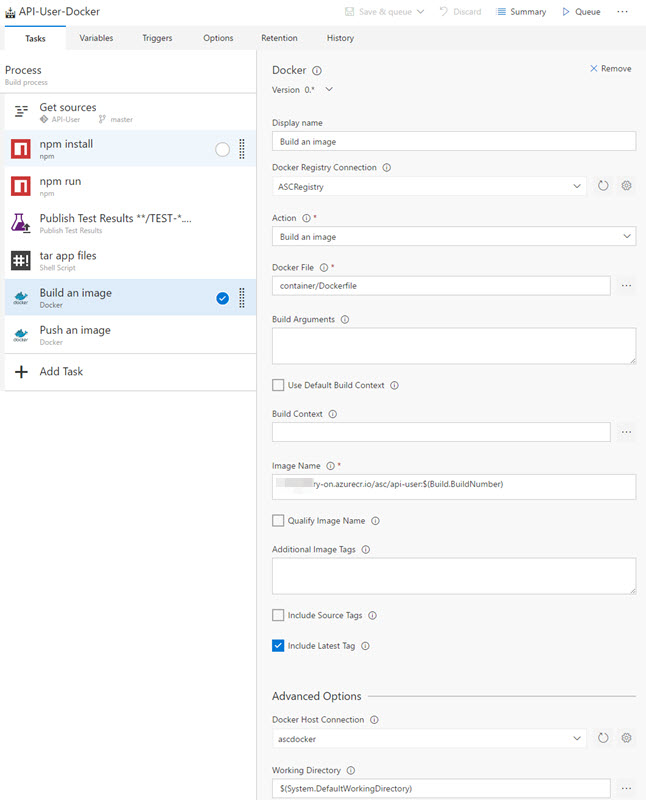
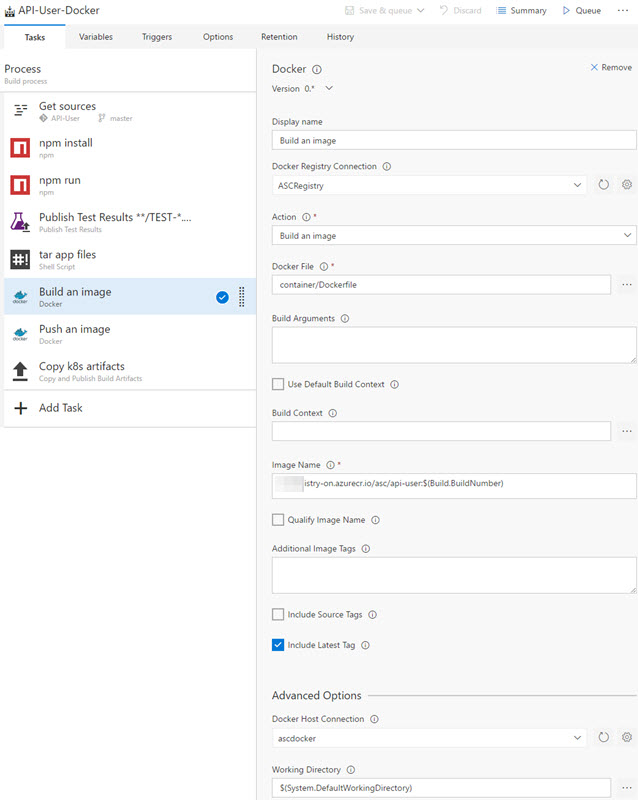
Start CD

diff --git a/CD-Kubernetes-VSTS/readme.md b/CD-Kubernetes-VSTS/readme.md
@@ -14,7 +14,6 @@ Tasks to go through are as follows:
 1. Setup Continuous Integration
 1. Build and Push Docker Container to ACR
 1. Setup Continuous Deployment
-1. Setup Integration Tests
 1. Release to different environments
 
 ## 1a. Setup Continuous Integration (CI)
@@ -46,13 +45,34 @@ If following steps 1b, then an additional build defition should be created as a 
 
 1. Package up the application code - This optional, but can make it easier than manually copying all the required application files to the container.  As seen in the reference Dockerfile, simply "ADD asc.tar.gz /asc" unpacks the entire contents of the tar into the /asc directory in the container image filesystem.
 1. Build the Docker Image - this built-in docker task builds the image with required tags on the docker host defined in the Advanced Options - "Docker Host Connection".  If no server is specified, assumption is that the VSTS build agent running the task has docker installed and is able to build the Dockerfile.  Important notes:
-    - The image name must match the URL of ACR.  i.e. `myownname-on.azurecr.io/mypathtoorganize/imagename:$(Build.BuildNumber)` where the path is simply a best practice to not have too many images at the root of the repo and the Build.BuildNumber is automatically generated from VSTS.
-    - Kubernetes works best if the EXPOSE command is present in the Dockerfile for necessary communication ports the app requires to function.
+    - The image name must match the URL of ACR.  i.e. `myownname-on.azurecr.io/mypathtoorganize/imagename:$(Build.BuildNumber)` where the path is simply a best practice to not have too many images at the root of the registry and the Build.BuildNumber is automatically generated from VSTS.
+    - Kubernetes works well if the EXPOSE command is present in the Dockerfile for necessary communication ports the app requires to function.
 1. Push the Docker Image to ACR - built-in docker task pushes the image just built to ACR.  To configure this step, click on the gear icon to the right of the "Docker Registry Connection" section of the Docker task.  Add the service endpoint for Docker Registry connection and specify:
     - Docker Registry: `https://myownname-on.azurecr.io`
-    - Docker ID and Password: Use either the admin account (comes by default after creation) or a service principal.  [This article](https://docs.microsoft.com/azure/container-registry/container-registry-authentication) explains authentication for ACR.
+    - Docker ID and Password: Use either the admin account (comes by default after creation) or a service principal.  [This article](https://docs.microsoft.com/azure/container-registry/container-registry-authentication) explains authentication for ACR.  
+  After this is set, simply ensure that Image name matches exactly what was defined in the previous Docker build step.
 
-After this is set, simply ensure that Image name matches exactly what was defined in the previous Docker build step.
+1. Publish required Kubernetes artifacts for Release - The files which deploy Kubernetes resources are done using JSON or YAML files.  Explanation of how to create these files is beyond scope of the article. [See here](https://kubernetes.io/docs/concepts/abstractions/overview/) as a starting point. However [here is the reference yaml file](./code/api-user.yaml) used to publish this API-User app to Kubernetes.  Note: It's important to call out the lines at the end which reference the secret Kubernetes will use to pull the image pushed earlier into ACR.  The secret with this name will be covered in step 3.4 below.
 
-![docker-build](./media/docker-build.jpg)
+    ``` language: YAML
+          imagePullSecrets:
+            - name: ascreg
+    ```
+    Now check-in the defined YAML file and [kubectl executeable](https://kubernetes.io/docs/user-guide/prereqs/) into the source repo, add the "Copy and Publish Build Artifacts" task, and specify the location of where the YAML and kubectl files are located in the contents box separated by a new line.
+     > Note: Currently the Kubernetes task requires kubectl checked into source, but this could change in future versions of the task.  If multiple services are using kubectl or the desire is to reduce the size of the repository, it is best to check kubectl into a separate code repository, publish just the kubectl artifact, and then link that build artifact the desired VSTS release definitions.
 
+    ![docker-build](./media/docker-build.jpg)
+
+## 3. Setup Continuous Deployment
+
+Now that the image is built and pushed to the private Docker image registry (ACR), it is time setup continuous deployment of the image to the Kubernetes cluster using VSTS.  Follow these steps:
+
+1. Install the [Kubernetes task from the VSTS marketplace](https://github.com/TsuyoshiUshio/KubernetesTask) to the VSTS subscription being used. Note: This requires the owner permissions of the VSTS subscription.
+1. Add a new Kubernetes Service Endpoint in VSTS -  in order to be able to access to the cluster to do deployments.
+    - Connection Name - can be whatever name makes most sense to you
+    - Server URL - This is the external endpoint to the Kubernetes cluster.  For ACS + Kubernetes this would be something like `https://myownname.westus.cloudapp.azure.com` and for GKE it might be something simply like `https://104.196.235.251`.
+    - Kubeconfig - this is a copy and paste of the contents inside the config file pulled securely from the Kubernetes master node of the cluster.  For more information on how to obtain this information, see the DEIS link referenced at the top of the page which provides steps to obtain both of these values from a Kubernetes cluster hosted on Azure, Google, or Amazon cloud providers.
+1. Create a new release definition and add Kubernetes task
+1. One-Time Prep Kubernetes cluster - by adding namespaces and secret for ACR.
+
+## 4. Release to different environments
